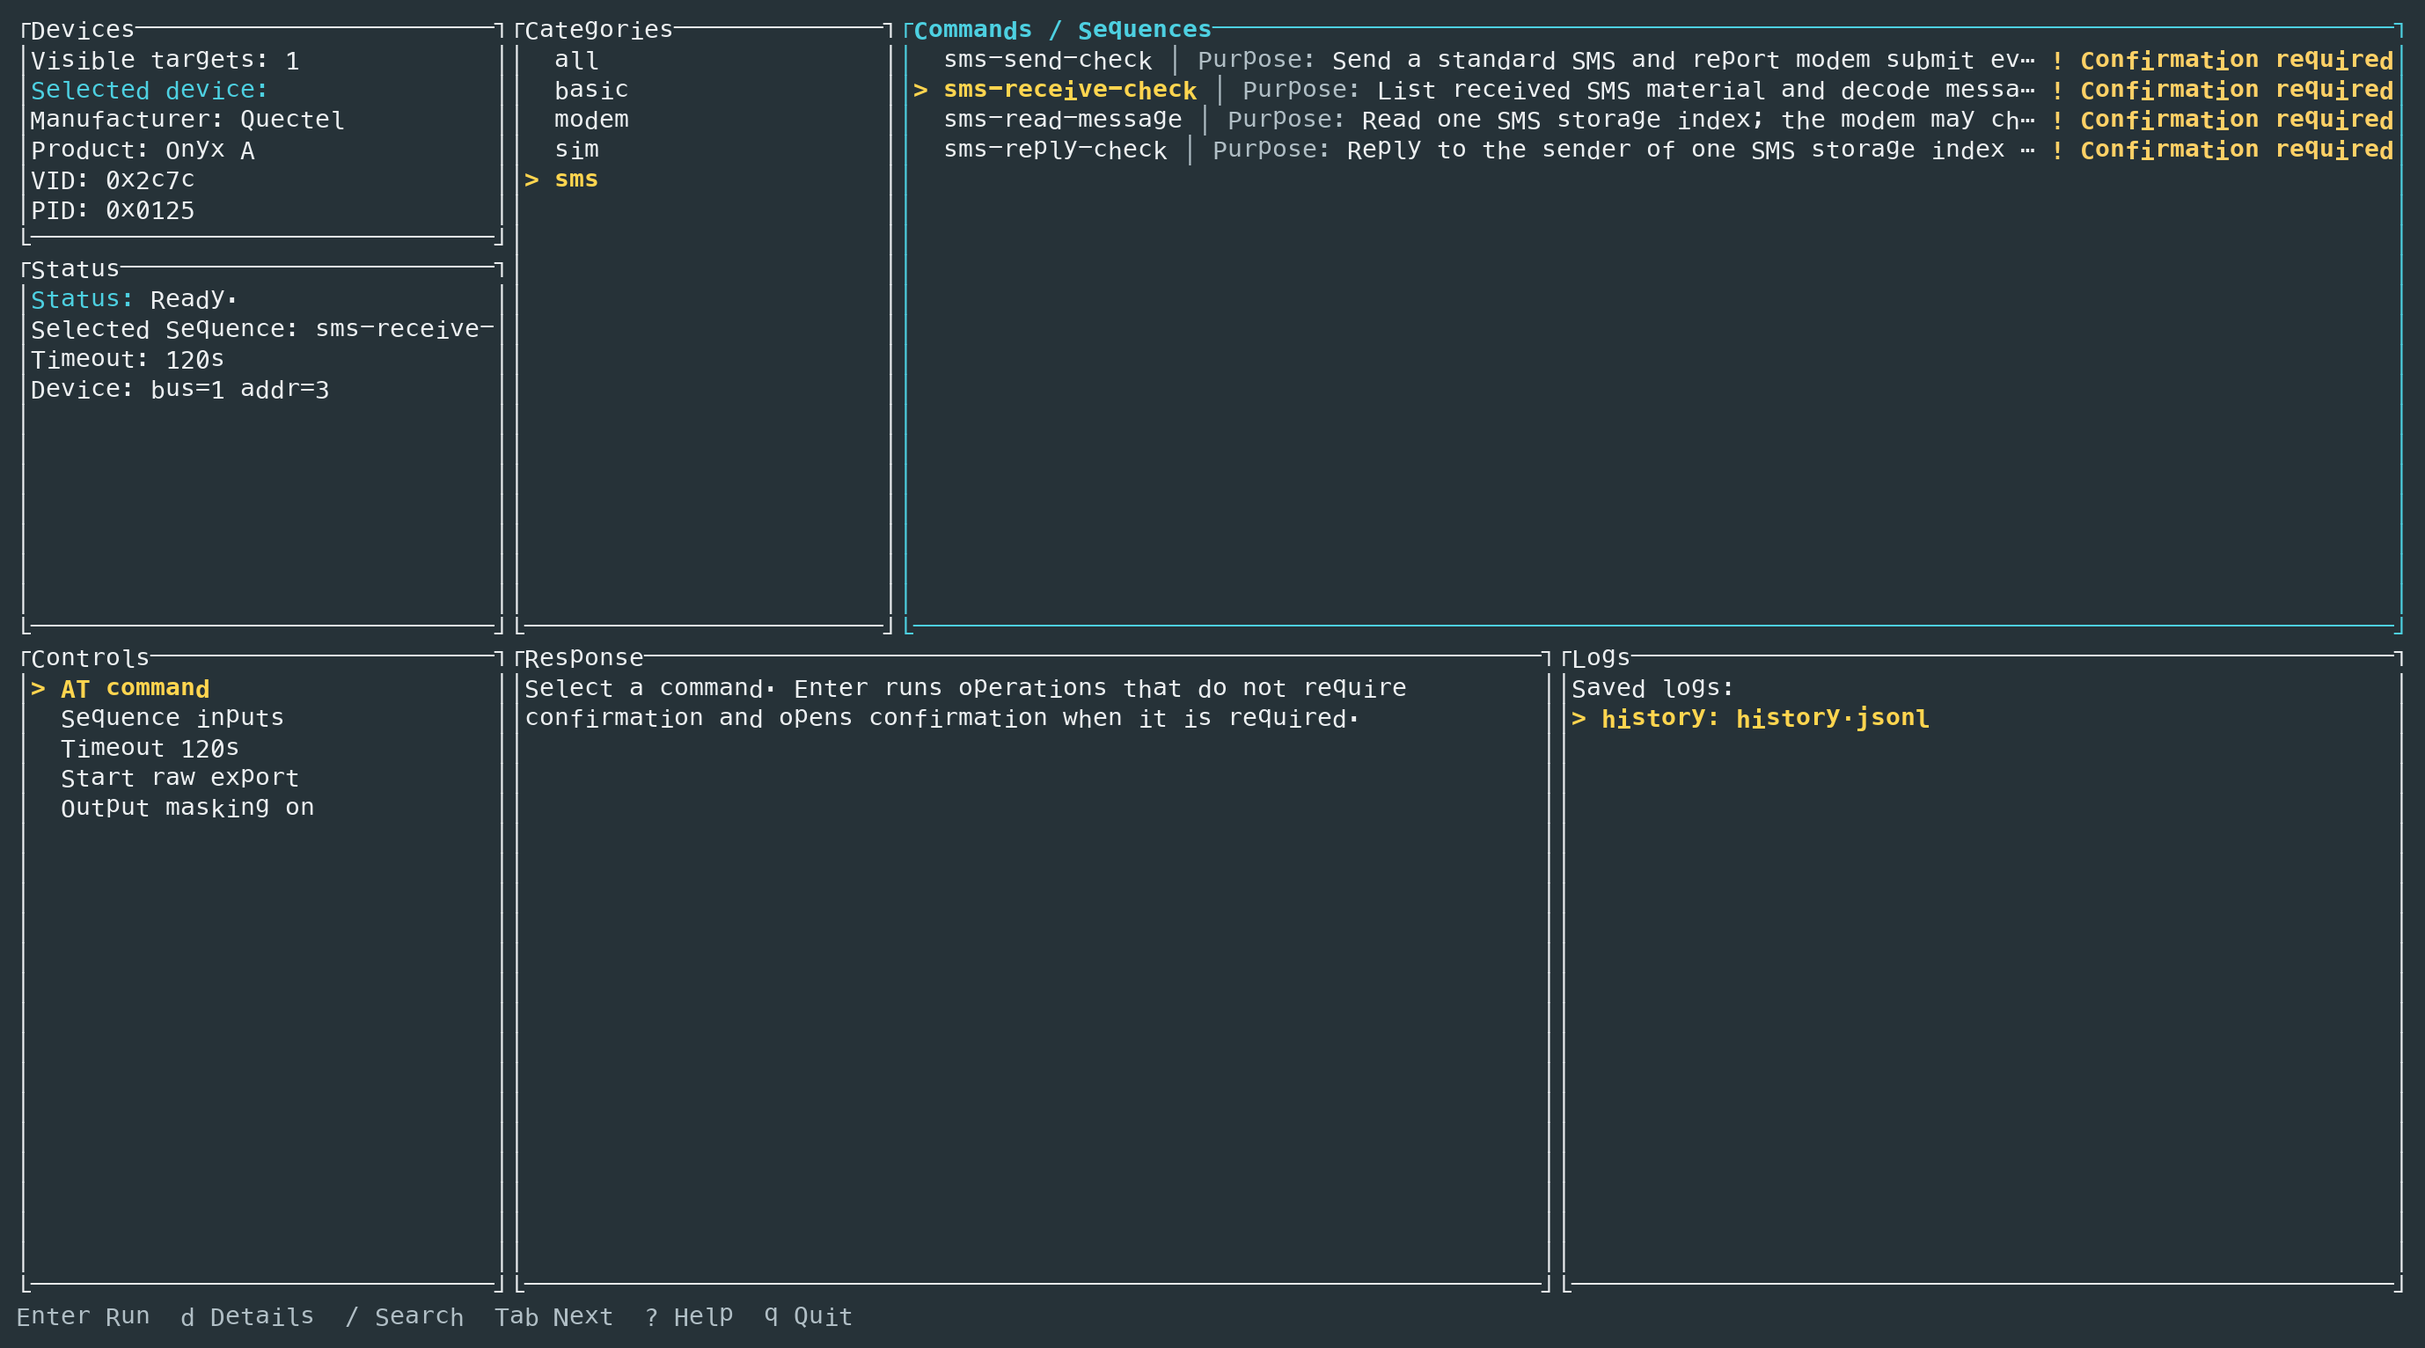
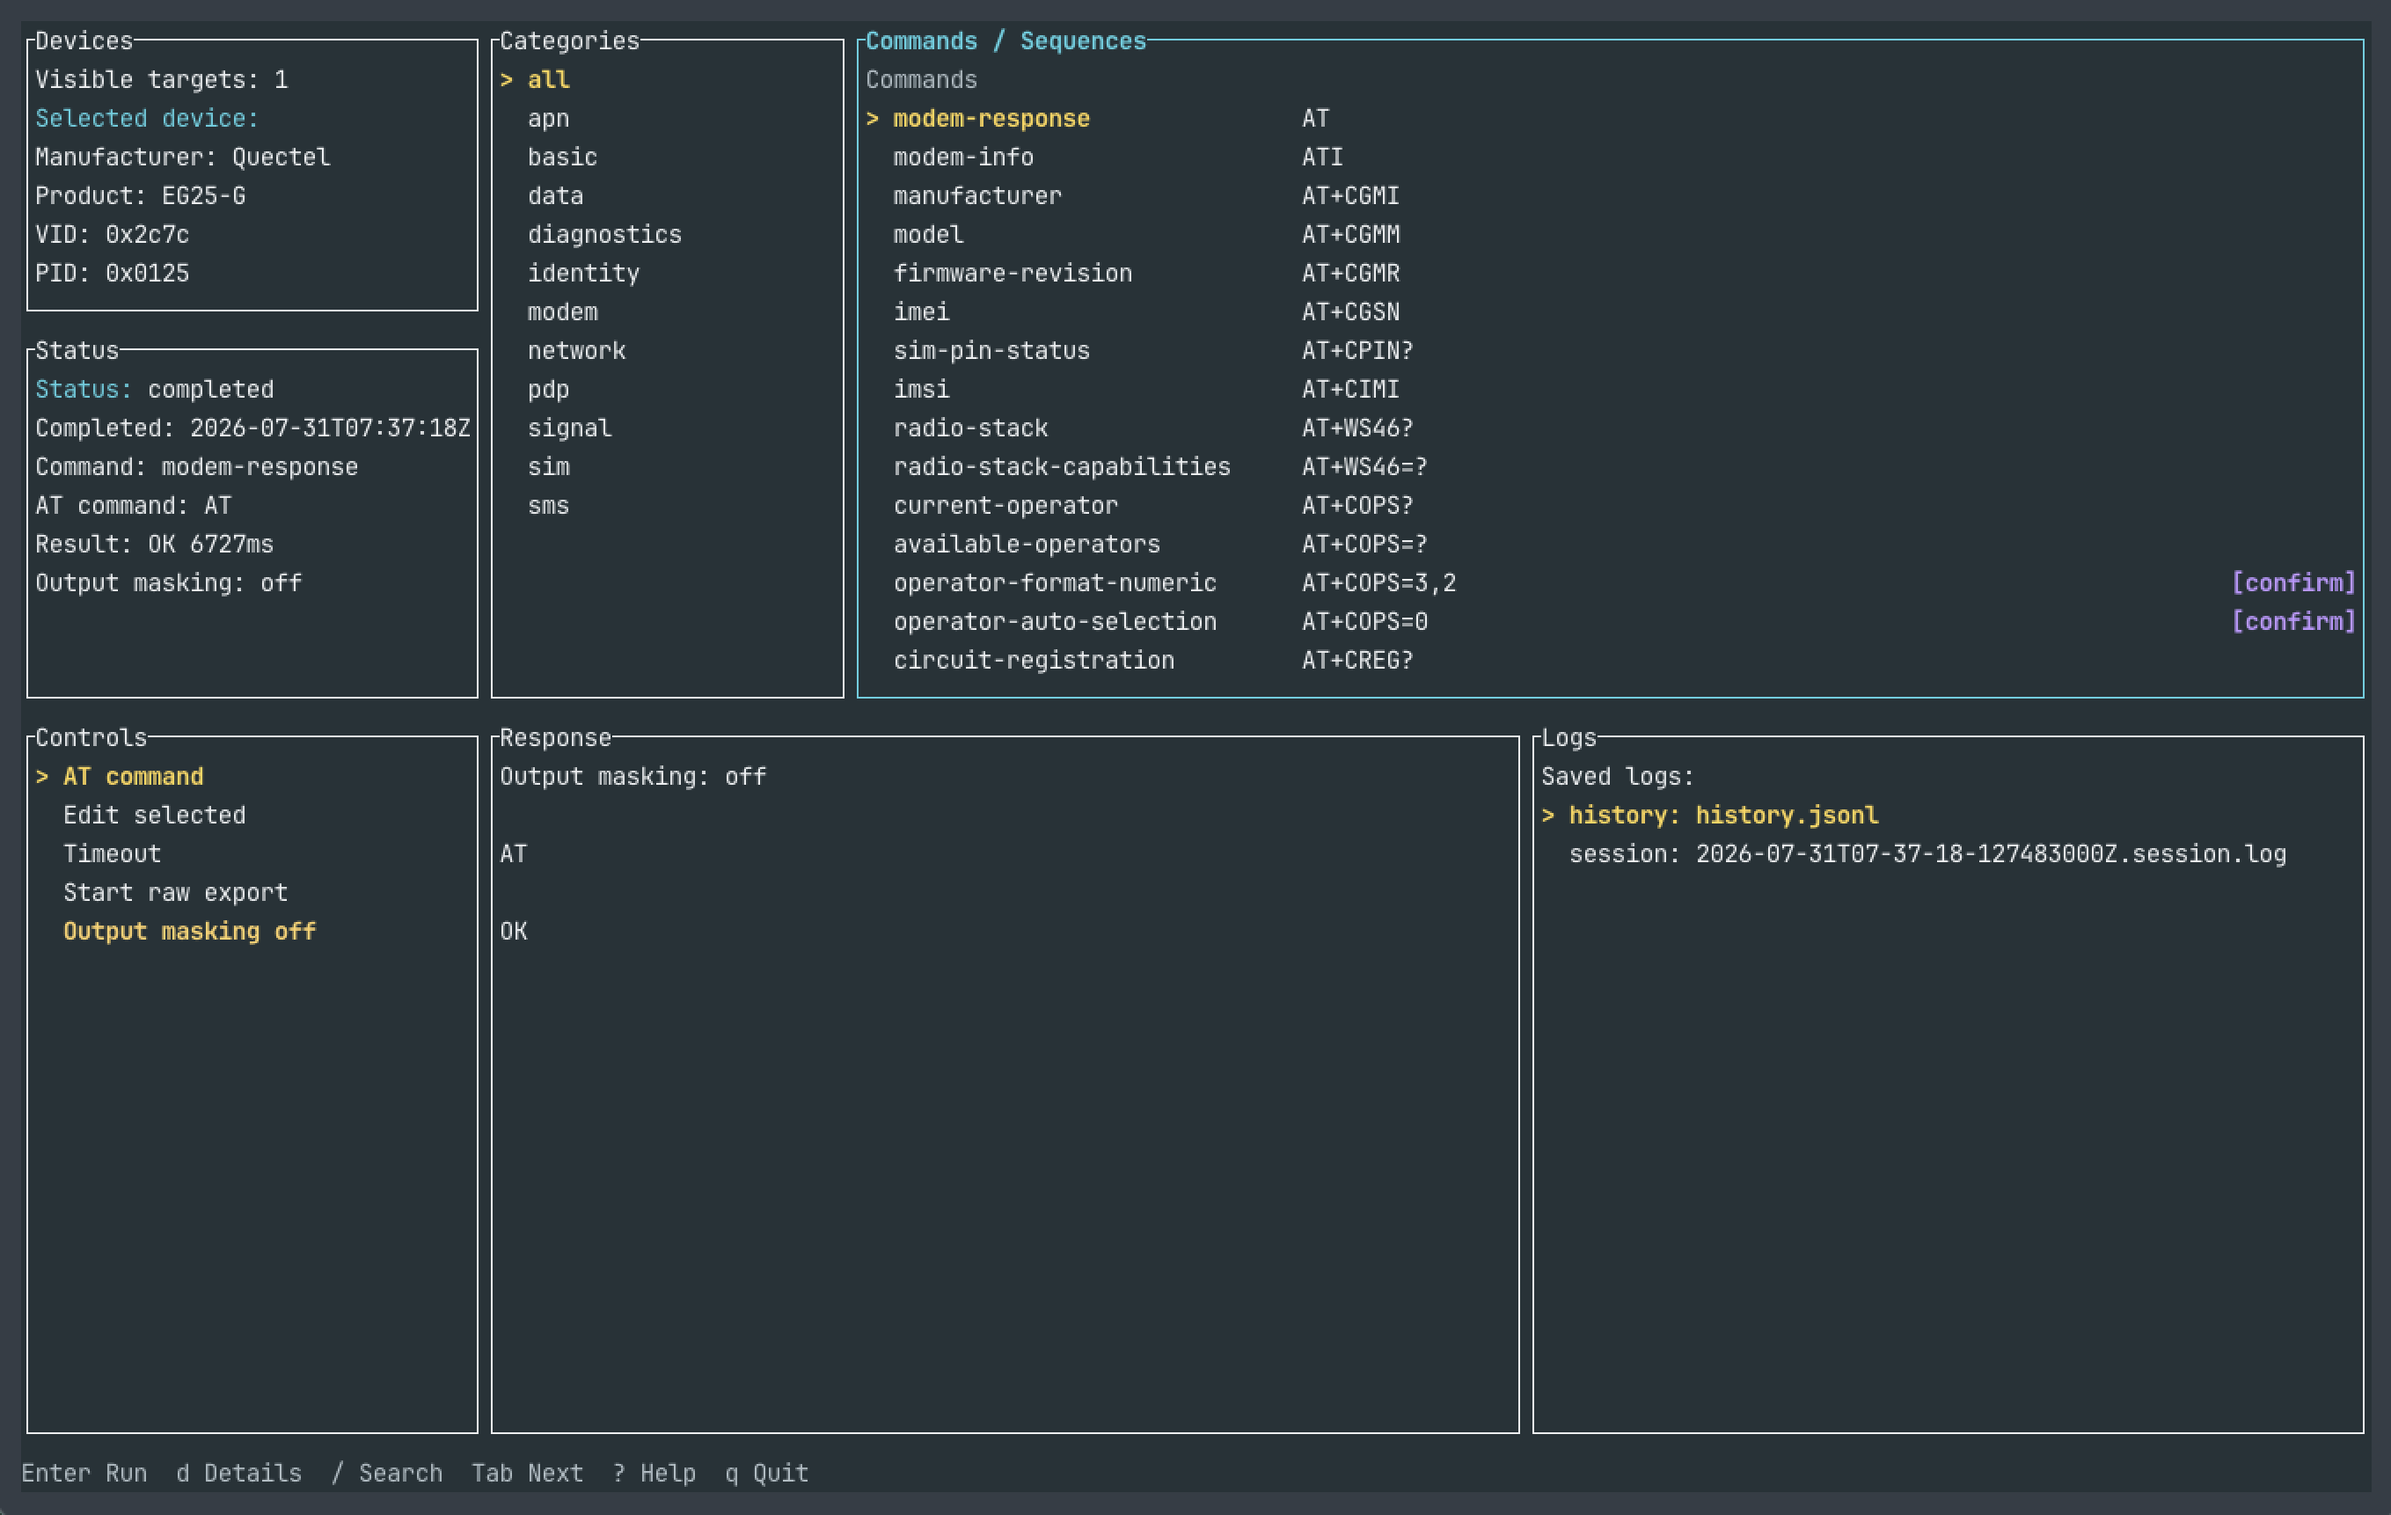
Convert README links to relative paths and refresh the TUI screenshot

Changed region(s): [[0.0, 0.0, 1.0, 0.9817], [0.989, 0.4909, 1.0, 0.951]]

diff --git a/README.md b/README.md
@@ -1,15 +1,15 @@
 # atctl
 
-[日本語 README](https://github.com/uchimanajet7/atctl/blob/main/README-ja.md)
+[日本語 README](README-ja.md)
 
 `atctl` is a Rust CLI/TUI for sending and managing AT commands for USB
 cellular modems from macOS on Apple Silicon.
 
-![atctl TUI showing device details, command categories, command list, response output, and saved logs](https://github.com/uchimanajet7/atctl/raw/main/docs/assets/atctl-tui-overview.png)
+![atctl TUI showing device details, command categories, command list, response output, and saved logs](docs/assets/atctl-tui-overview.png)
 
 The validated environment is an Apple Silicon Mac with a SORACOM Onyx LTE USB
 Dongle (Quectel EG25-G, USB ID `0x2c7c:0x0125`). See the
-[installation guide](https://github.com/uchimanajet7/atctl/blob/main/docs/INSTALL.md)
+[installation guide](docs/INSTALL.md)
 for the complete validation boundary and runtime prerequisites.
 
 Real-hardware workflows confirmed in this environment:
@@ -31,7 +31,7 @@ brew install uchimanajet7/atctl/atctl
 ```
 
 The Homebrew formula installs the `libusb` runtime dependency. See the
-[installation guide](https://github.com/uchimanajet7/atctl/blob/main/docs/INSTALL.md)
+[installation guide](docs/INSTALL.md)
 for prerequisites and installation checks.
 
 ## First Commands
@@ -48,7 +48,7 @@ atctl tui
 
 Use `atctl devices` to find the current USB target. If the expected modem is not
 shown, run `atctl devices --all-usb` and follow the
-[troubleshooting guide](https://github.com/uchimanajet7/atctl/blob/main/docs/TROUBLESHOOTING.md).
+[troubleshooting guide](docs/TROUBLESHOOTING.md).
 
 ## Main Workflows
 
@@ -74,10 +74,10 @@ and session logs by default under the XDG state directory:
 ```
 
 See
-[Review and Manage Logs](https://github.com/uchimanajet7/atctl/blob/main/docs/TROUBLESHOOTING.md#review-and-manage-logs)
+[Review and Manage Logs](docs/TROUBLESHOOTING.md#review-and-manage-logs)
 for XDG path overrides, `--no-log`, CLI and TUI review, Response export, Finder
 access, retention, and deletion. See the
-[safety guide](https://github.com/uchimanajet7/atctl/blob/main/docs/SAFETY.md#logging)
+[safety guide](docs/SAFETY.md#logging)
 for the masking, sensitive-metadata, and raw-diagnostic boundaries.
 
 ## Safety
@@ -120,7 +120,7 @@ AT commands can read sensitive identifiers and change modem state. `atctl`
 masks sensitive output by default, requires confirmation for state-changing or
 otherwise material actions, and creates raw diagnostic exports only when the
 operator chooses an output file and acknowledges the warning. Read the
-[safety guide](https://github.com/uchimanajet7/atctl/blob/main/docs/SAFETY.md)
+[safety guide](docs/SAFETY.md)
 before running unfamiliar or state-changing commands.
 
 ## Presets and Sequences
@@ -156,19 +156,19 @@ atctl tui --preset-dir examples/presets --sequence-dir examples/sequences
 
 Review external definition sources and destination values before execution.
 See the
-[presets and Sequences reference](https://github.com/uchimanajet7/atctl/blob/main/docs/PRESETS.md)
+[presets and Sequences reference](docs/PRESETS.md)
 for inventories, TOML formats, loading options, source identity, Sequence
 parameters, execution behavior, and evidence interpretation. The
-[safety guide](https://github.com/uchimanajet7/atctl/blob/main/docs/SAFETY.md)
+[safety guide](docs/SAFETY.md)
 defines the common review, confirmation, masking, logging, and raw-export
 protections.
 
 ## User Documentation
 
-- [Installation](https://github.com/uchimanajet7/atctl/blob/main/docs/INSTALL.md)
-- [Presets and Sequences reference](https://github.com/uchimanajet7/atctl/blob/main/docs/PRESETS.md)
-- [Safety guide](https://github.com/uchimanajet7/atctl/blob/main/docs/SAFETY.md)
-- [Troubleshooting](https://github.com/uchimanajet7/atctl/blob/main/docs/TROUBLESHOOTING.md)
+- [Installation](docs/INSTALL.md)
+- [Presets and Sequences reference](docs/PRESETS.md)
+- [Safety guide](docs/SAFETY.md)
+- [Troubleshooting](docs/TROUBLESHOOTING.md)
 
 ## Questions and reports
 
@@ -189,15 +189,15 @@ contents in a public issue.
 ## Contributing
 
 Code and documentation contributions are welcome. Read the
-[contribution guide](https://github.com/uchimanajet7/atctl/blob/main/CONTRIBUTING.md)
+[contribution guide](CONTRIBUTING.md)
 before opening a pull request.
 
 ## Maintainer Information
 
-- [Development guide](https://github.com/uchimanajet7/atctl/blob/main/docs/DEVELOPMENT.md)
-- [Packaging and release guide](https://github.com/uchimanajet7/atctl/blob/main/docs/PACKAGING.md)
-- [Product and technical specification](https://github.com/uchimanajet7/atctl/blob/main/docs/SPEC.md)
-- [Accepted product and architecture decisions](https://github.com/uchimanajet7/atctl/blob/main/docs/DECISIONS.md)
+- [Development guide](docs/DEVELOPMENT.md)
+- [Packaging and release guide](docs/PACKAGING.md)
+- [Product and technical specification](docs/SPEC.md)
+- [Accepted product and architecture decisions](docs/DECISIONS.md)
 
 ## License
 
